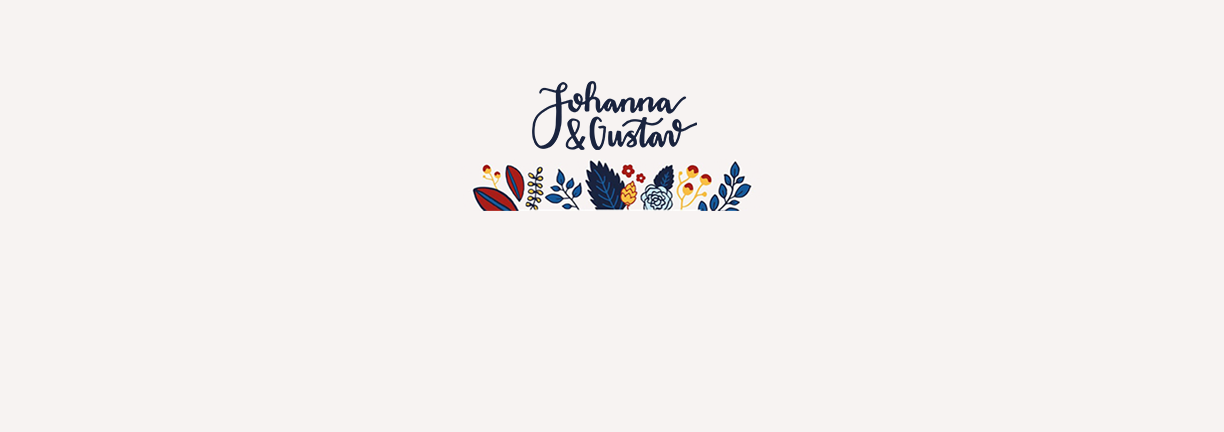
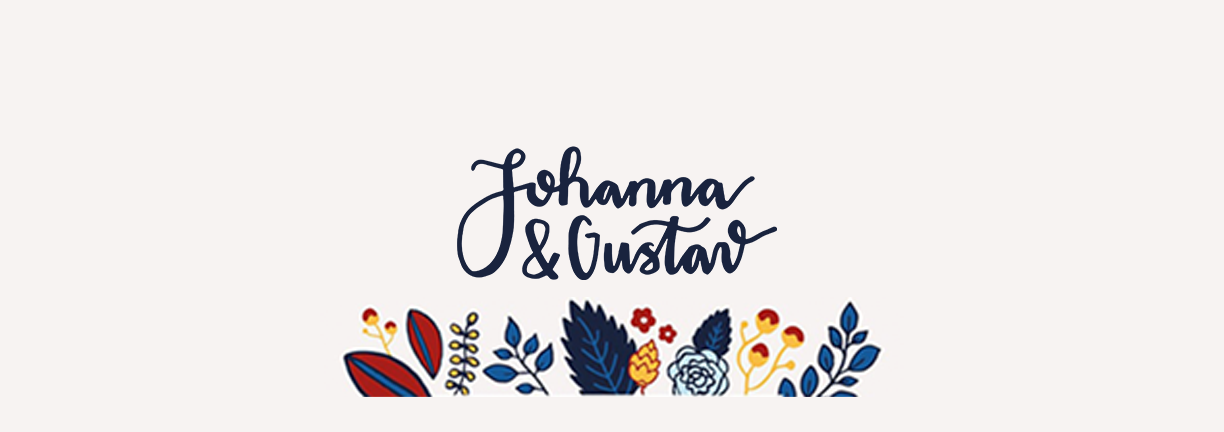
header

Changed region(s): [[0.2794, 0.6921, 0.7451, 0.9329], [0.3725, 0.1806, 0.652, 0.662]]

diff --git a/style.css b/style.css
@@ -421,7 +421,7 @@ html, body {
 
 .hero-image
 {
-  background-image: url("images/header3.png");
+  background-image: url("images/header4.png");
   height: 45%;
 }
 
